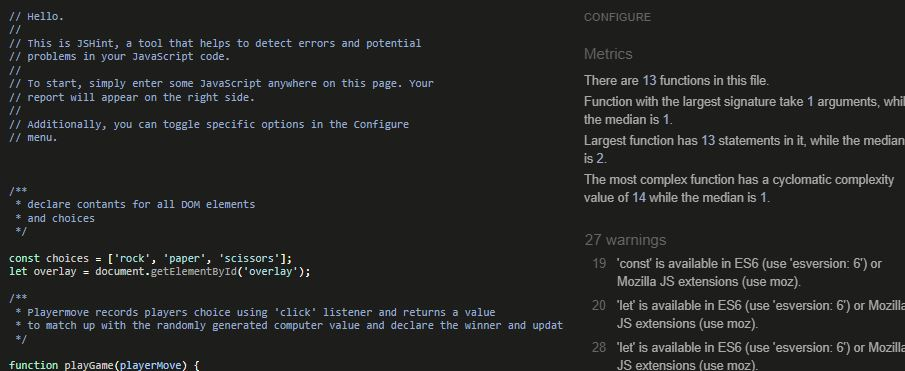
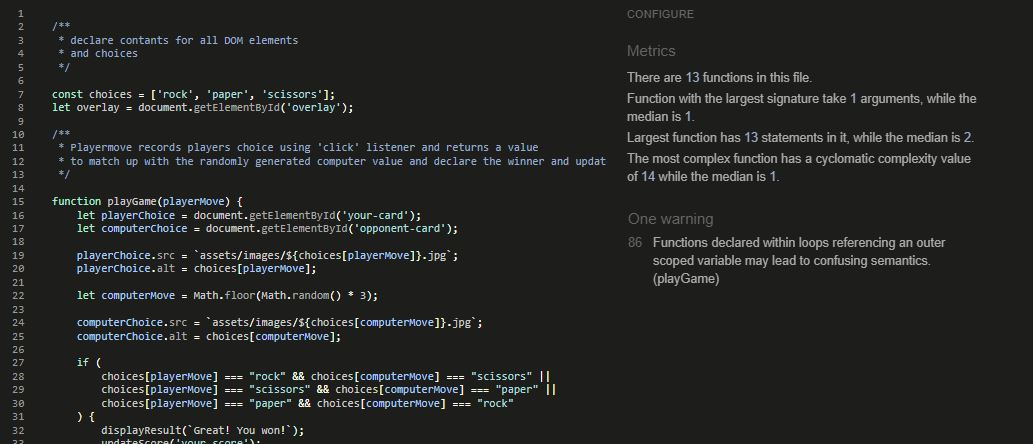
Update JSHint report image and text in README

diff --git a/README.md b/README.md
@@ -204,7 +204,7 @@ Testing was carried out by project developer using every device at his disposal,
 </details>  
 
 - __JSHint__
-    - On the first try JSHint reported 27 warnings, but no errors:
+    - On the first try JSHint reported 1 warning, but no errors:
         
 <details>
   <summary>JSHint Warning Messages</summary>
